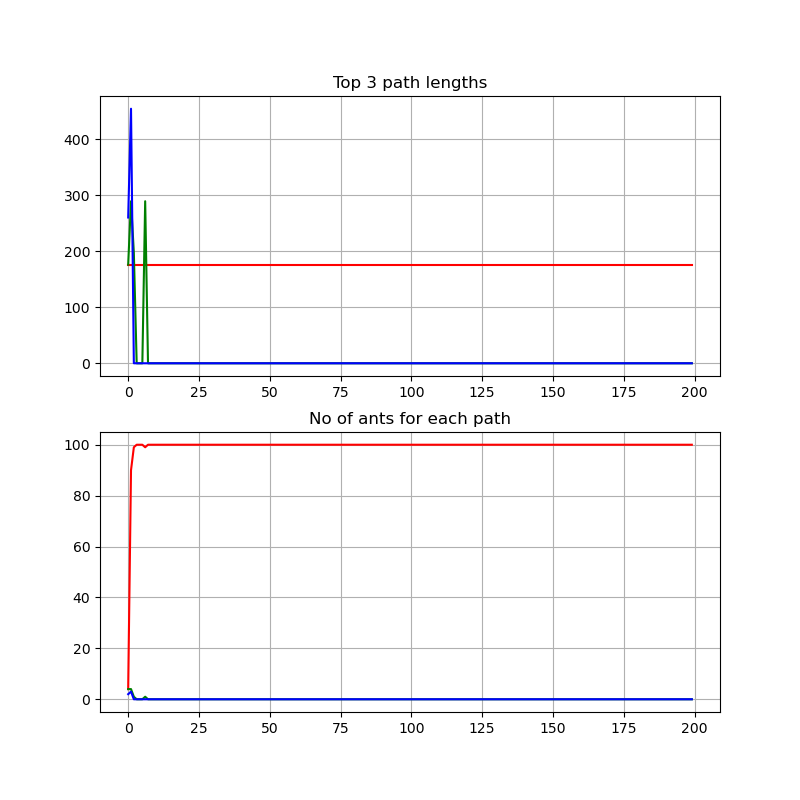
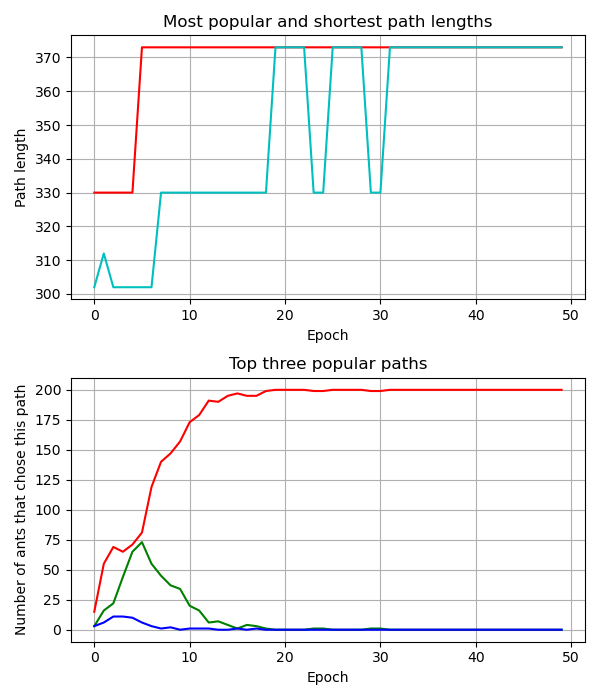
minor changes to statistics

diff --git a/ant_colony.py b/ant_colony.py
@@ -5,11 +5,11 @@ from Ant import Ant
 from dijkstry import dijkstry
 from matplotlib import pyplot as plt
 
-NUMBER_OF_ITERATIONS = 200
-NUMBER_OF_ANTS = 100
+NUMBER_OF_ITERATIONS = 50
+NUMBER_OF_ANTS = 200
 
-PHEROMONE_COEFFICIENT = 5
-EVAPORATION_COEFFICIENT = 0.25
+PHEROMONE_COEFFICIENT = 2
+EVAPORATION_COEFFICIENT = 0.4
 
 
 def simulate_colony():
@@ -19,7 +19,7 @@ def simulate_colony():
     begin = min(graph.nodes())
     end = max(graph.nodes())
 
-    most_common_paths = [[], [], []]
+    most_common_paths = [[], [], [], []]
     most_common_paths_counts = [[], [], []]
     iterations = []
 
@@ -68,6 +68,8 @@ def simulate_colony():
 
         all_paths_counts_sorted = sorted(all_paths_counts, reverse=True)
 
+        min_path = sorted(all_paths, key=lambda k: k[1])[0]
+
         for i, top_path_count in enumerate(all_paths_counts_sorted[:3]):
             most_common_paths[i].append(all_paths[all_paths_counts.index(top_path_count)])
             most_common_paths_counts[i].append(all_paths_counts[all_paths_counts.index(top_path_count)])
@@ -81,6 +83,8 @@ def simulate_colony():
         if len(all_paths_counts_sorted) == 2:
             most_common_paths[2].append(([], 0))
             most_common_paths_counts[2].append(0)
+
+        most_common_paths[3].append(min_path)
 
         iterations.append(iteration)
     determinant_ant = Ant(-1, graph, begin, end)
@@ -116,23 +120,30 @@ def create_statistics(iterations, most_common_paths, most_common_paths_counts):
     distances0 = [dist for _, dist in most_common_paths[0]]
     distances1 = [dist for _, dist in most_common_paths[1]]
     distances2 = [dist for _, dist in most_common_paths[2]]
+    distances_min = [dist for _, dist in most_common_paths[3]]
 
     counts0 = most_common_paths_counts[0]
     counts1 = most_common_paths_counts[1]
     counts2 = most_common_paths_counts[2]
 
-    fig, axs = plt.subplots(2, 1, figsize=(8, 8))
+    fig, axs = plt.subplots(2, 1, figsize=(6, 7))
 
     ax = axs[0]
-    ax.plot(iterations, distances0, 'r-', iterations, distances1, 'g-', iterations, distances2, 'b-')
+    ax.plot(iterations, distances0, 'r-', label='Most popular path')
+    ax.plot(iterations, distances_min, 'c-', label='Shortest path found')
     ax.grid(True)
-    ax.set_title('Top 3 path lengths')
+    ax.set_title('Most popular and shortest path lengths')
+    ax.set_xlabel('Epoch')
+    ax.set_ylabel('Path length')
 
     ax = axs[1]
     ax.plot(iterations, counts0, 'r-', iterations, counts1, 'g-', iterations, counts2, 'b-')
     ax.grid(True)
-    ax.set_title('No of ants for each path')
+    ax.set_title('Top three popular paths')
+    ax.set_xlabel('Epoch')
+    ax.set_ylabel('Number of ants that chose this path')
 
+    plt.tight_layout()
     plt.savefig('./figure.png')
 
 

diff --git a/dijkstry.py b/dijkstry.py
@@ -24,6 +24,8 @@ def dijkstry(G, snode, enode):
     heapify(options)
     i = 1
 
+    reach_cost = {snode: 0}
+
     while len(options) > 0:
 
         tuple = heappop(options)
@@ -33,11 +35,15 @@ def dijkstry(G, snode, enode):
         children = G.neighbors(node)
         for child in children:
 
+            cost = reach_cost[node] + G[node][child]['distance']
+
             if child == enode:
                 G.nodes[child]['parent'] = node
                 return path_from(G, child)
 
-            if not G.nodes[child]['visited']:
+            if child not in reach_cost or cost < reach_cost[child]:
+                reach_cost[child] = cost
+            # if not G.nodes[child]['visited']:
                 G.nodes[child]['parent'] = node
                 new_tuple = (tuple[0] + 1, i, child)
                 i += 1

diff --git a/Ant.py b/Ant.py
@@ -3,7 +3,7 @@ from numpy.random import choice
 import networkx as nx
 
 alpha = 1.1
-beta = 1.5
+beta = 1.05
 
 
 class Ant:
